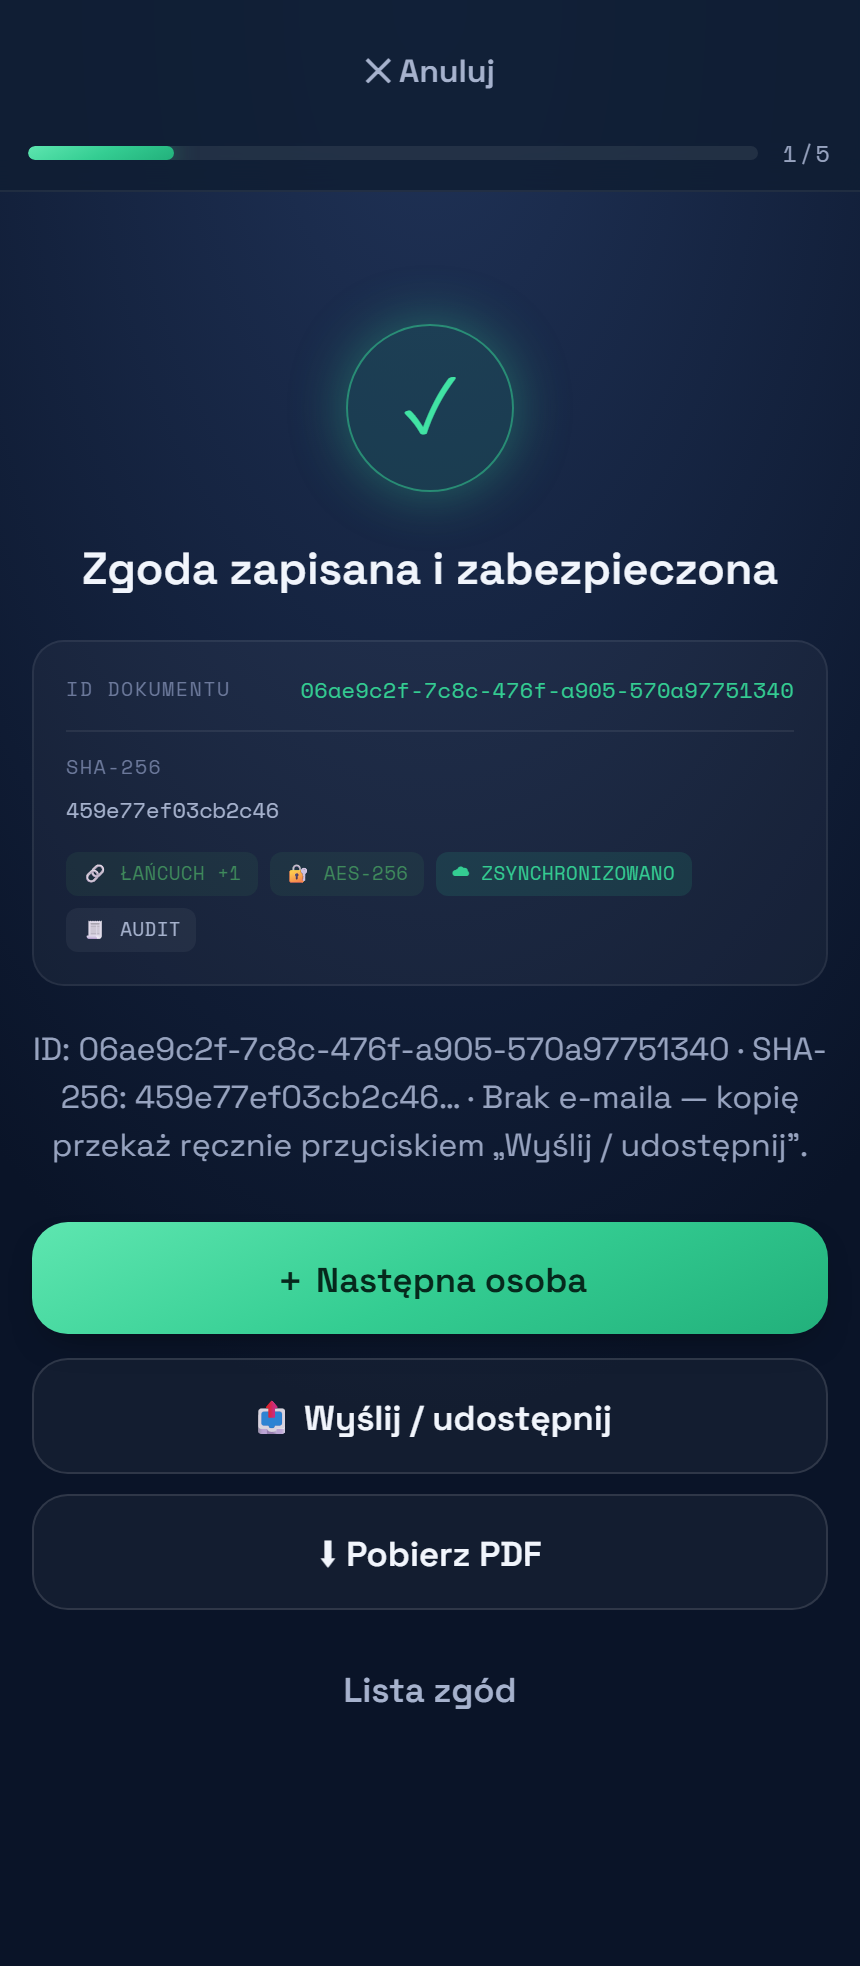
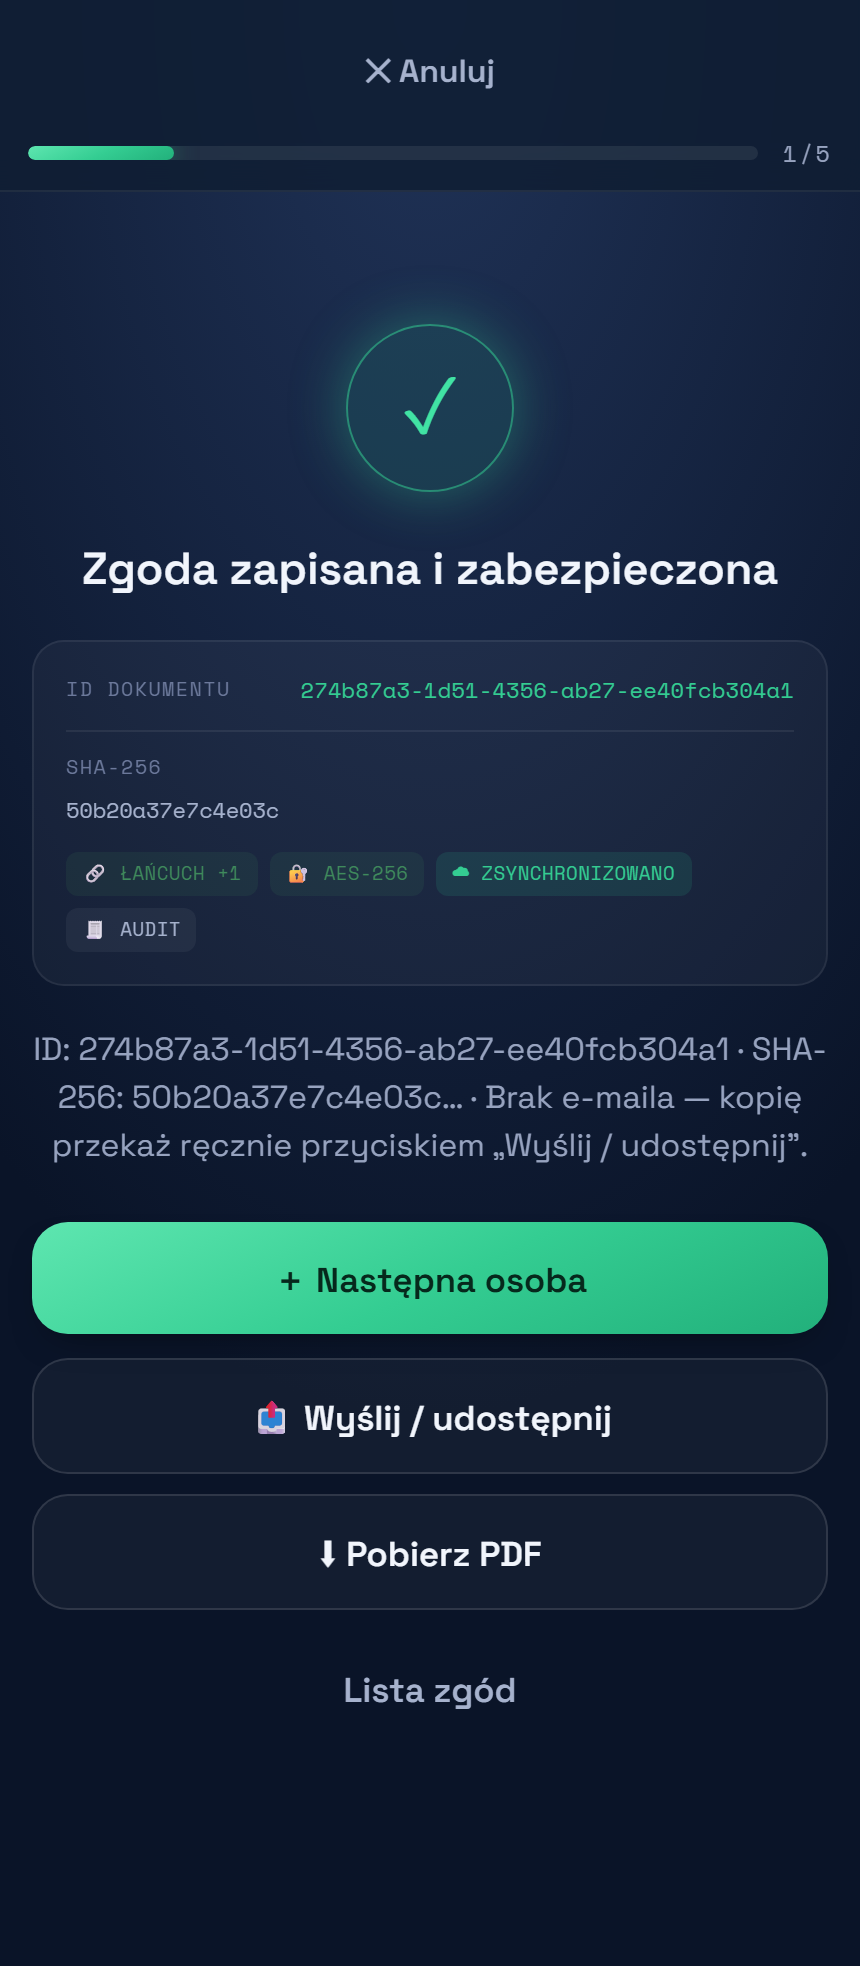
Przewodnik dla Hani: odświeżenie — przywracanie z chmury na starcie, dwa konta, nowe zrzuty
- Nowy zrzut ekranu startowego (00-start.png) z dwoma logami i przyciskiem „Mam już konto — przywróć z chmury".
- kopia.html: prostsza ścieżka odzyskiwania konta/danych na nowym urządzeniu (Hania+Marek, login PIN-em).
- instalacja.html: pierwsze otwarcie (przywróć / od zera) + uwaga o nowej ikonie.
- Odświeżone pozostałe zrzuty (aktualny interfejs).

diff --git a/docs/kopia.html b/docs/kopia.html
@@ -23,13 +23,23 @@
     <li>Trzymana jest też <b>niezmienialna historia</b> kopii (z datami) — nie da się jej skasować ani nadpisać.</li>
   </ul>
 
-  <h2>Odzyskanie danych na nowym telefonie</h2>
-  <div class="step"><span class="num">1</span>Zainstaluj aplikację (patrz <a href="instalacja.html">Instalacja</a>) i przejdź szybką konfigurację z dowolnym tymczasowym PIN-em.</div>
-  <div class="step"><span class="num">2</span>Wejdź w <b>Ustawienia → ☁ Chmura</b> i dotknij <b>„Przywróć z chmury"</b>.</div>
-  <div class="step"><span class="num">3</span>Wybierz kopię z listy (jest też sekcja <b>„🛡 Niezmienialna historia kopii"</b> z datami).</div>
-  <div class="step"><span class="num">4</span>Zaloguj się <b>PIN-em z chwili wykonania kopii</b> — wracają wszystkie zgody, projekty, pliki i historia.</div>
+  <h2>Konto i dane na nowym telefonie (przywracanie)</h2>
+  <p>Po zainstalowaniu aplikacji na nowym urządzeniu odzyskasz wszystko w kilka dotknięć — <b>konta (Hania i Marek), projekty, zgody i pliki</b>.</p>
+  <div class="grid">
+    <figure><img src="img/00-start.png" alt="Ekran startowy z przyciskiem „Mam już konto — przywróć z chmury”"><figcaption>Ekran startowy → „Mam już konto"</figcaption></figure>
+    <div class="col">
+      <div class="step"><span class="num">1</span>Zainstaluj aplikację (patrz <a href="instalacja.html">Instalacja</a>).</div>
+      <div class="step"><span class="num">2</span>Na ekranie startowym dotknij <b>„📥 Mam już konto — przywróć z chmury"</b>.</div>
+      <div class="step"><span class="num">3</span>Wpisz <b>hasło konta technicznego</b> (dostaniesz je od Marka) → <b>„⬇ Pobierz i przywróć"</b>.</div>
+      <div class="step"><span class="num">4</span>Po chwili pojawiają się <b>konta i dane</b>. Wybierz swoje konto i <b>zaloguj się swoim PIN-em</b>.</div>
+    </div>
+  </div>
+
+  <div class="box ok"><b>Po przywróceniu</b> na liście kont są <b>Hania i Marek</b> — każde loguje się własnym PIN-em. Kopia w chmurze działa dalej sama (zielona odznaka ☁ „połączono" u góry).</div>
 
   <div class="box warn"><b>Pamiętaj:</b> kopię odszyfrowuje wyłącznie PIN, którym dane były zabezpieczone. Bez właściwego PIN-u kopia jest bezużyteczna (to celowe — chroni przed kradzieżą telefonu). Zapomniany PIN odzyskasz <b>kodem odzyskiwania</b> (przychodzi mailem przy zakładaniu konta) albo prosząc administratora o reset — patrz <a href="faq.html">FAQ</a>.</div>
+
+  <p class="tiny muted">Alternatywnie (zaawansowane): po zalogowaniu możesz też przywrócić starszą wersję z <b>Ustawienia → ☁ Chmura → „Przywróć z chmury"</b> — jest tam też niezmienialna historia kopii z datami.</p>
 
   <div class="pager"><a class="back" href="zgody.html">← Zgody i dokumenty</a><a href="bezpieczenstwo.html">Dalej: Bezpieczeństwo →</a></div>
   <footer>SignOff by Offhand · dla Hanny Nobis · od Marka</footer>

diff --git a/docs/instalacja.html b/docs/instalacja.html
@@ -36,7 +36,14 @@
     </div>
   </div>
 
-  <div class="box warn"><b>Ważne — aktualizacje:</b> gdy na dole pojawi się pasek <b>„Dostępna nowa wersja → Odśwież"</b>, dotknij <b>Odśwież</b>. To podmienia aplikację na najnowszą. Na iPhonie musi to być <b>Safari</b> — w innych przeglądarkach nie ma opcji dodania do ekranu.</div>
+  <div class="box ok"><b>Przy pierwszym otwarciu</b> masz dwie drogi:
+    <ul>
+      <li><b>Mam już konto</b> (np. dane są na innym urządzeniu) → dotknij <b>„📥 Mam już konto — przywróć z chmury"</b>, wpisz hasło techniczne (od Marka) i zaloguj się swoim PIN-em. Szczegóły: <a href="kopia.html">Kopia w chmurze i odzyskiwanie</a>.</li>
+      <li><b>Zaczynam od zera</b> → ustaw swój PIN i działaj (konfigurację firmy/projektów zrobisz w aplikacji).</li>
+    </ul>
+  </div>
+
+  <div class="box warn"><b>Ważne — aktualizacje:</b> gdy na dole pojawi się pasek <b>„Dostępna nowa wersja → Odśwież"</b>, dotknij <b>Odśwież</b>. To podmienia aplikację na najnowszą. <b>Nowa ikona</b> na ekranie głównym pojawi się dopiero po usunięciu i ponownym dodaniu skrótu. Na iPhonie musi to być <b>Safari</b> — w innych przeglądarkach nie ma opcji dodania do ekranu.</div>
 
   <div class="pager"><a class="back" href="index.html">← Spis treści</a><a href="obsluga.html">Dalej: Logowanie i zbieranie zgody →</a></div>
   <footer>SignOff by Offhand · dla Hanny Nobis · od Marka</footer>